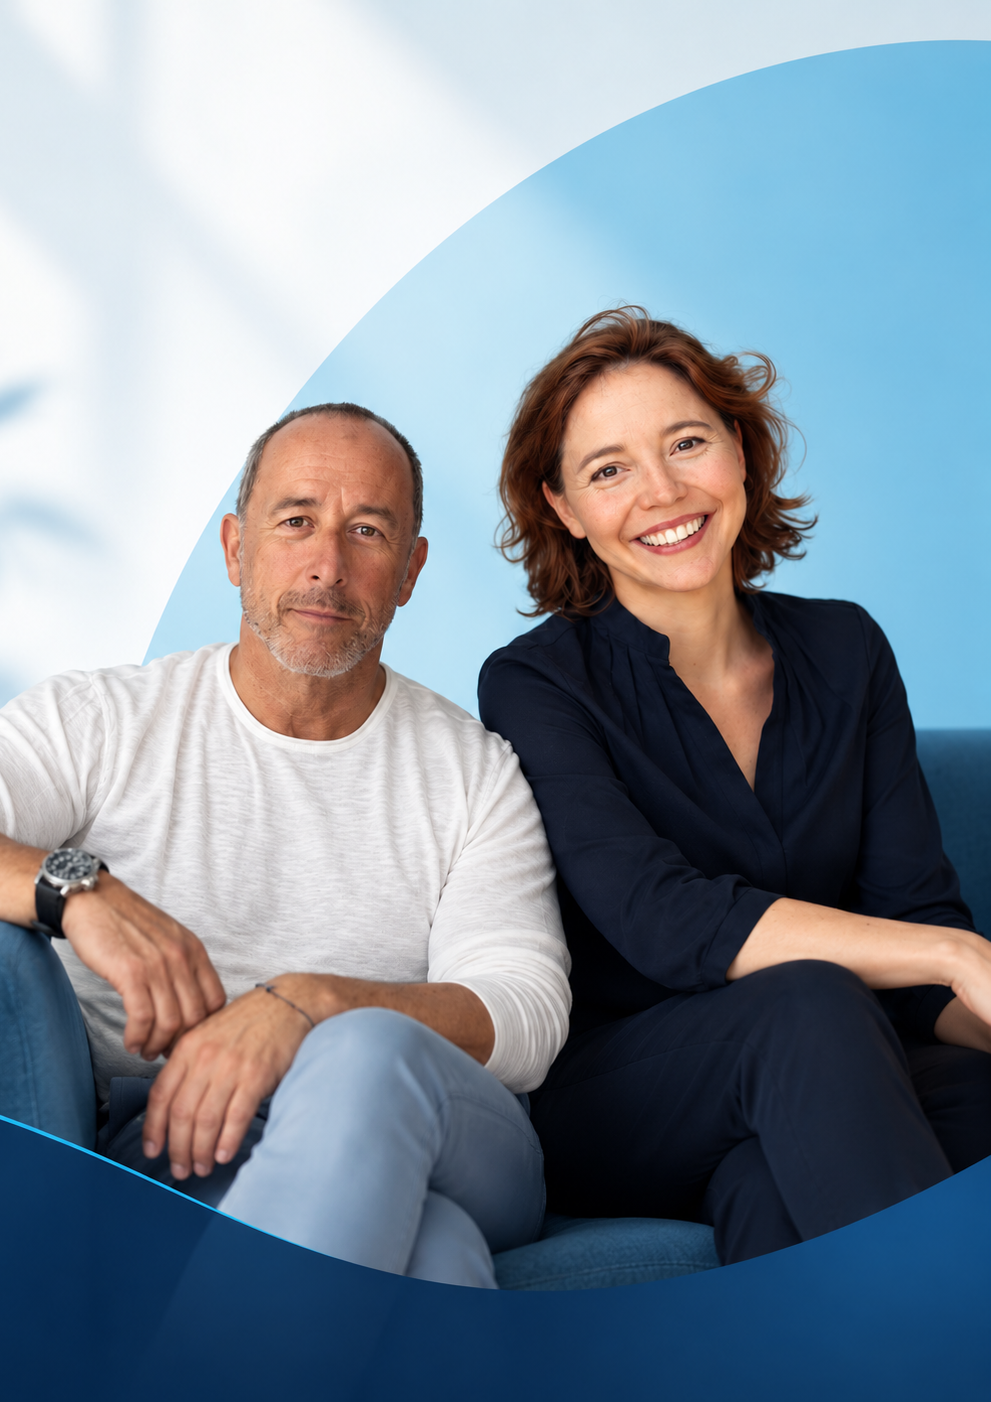
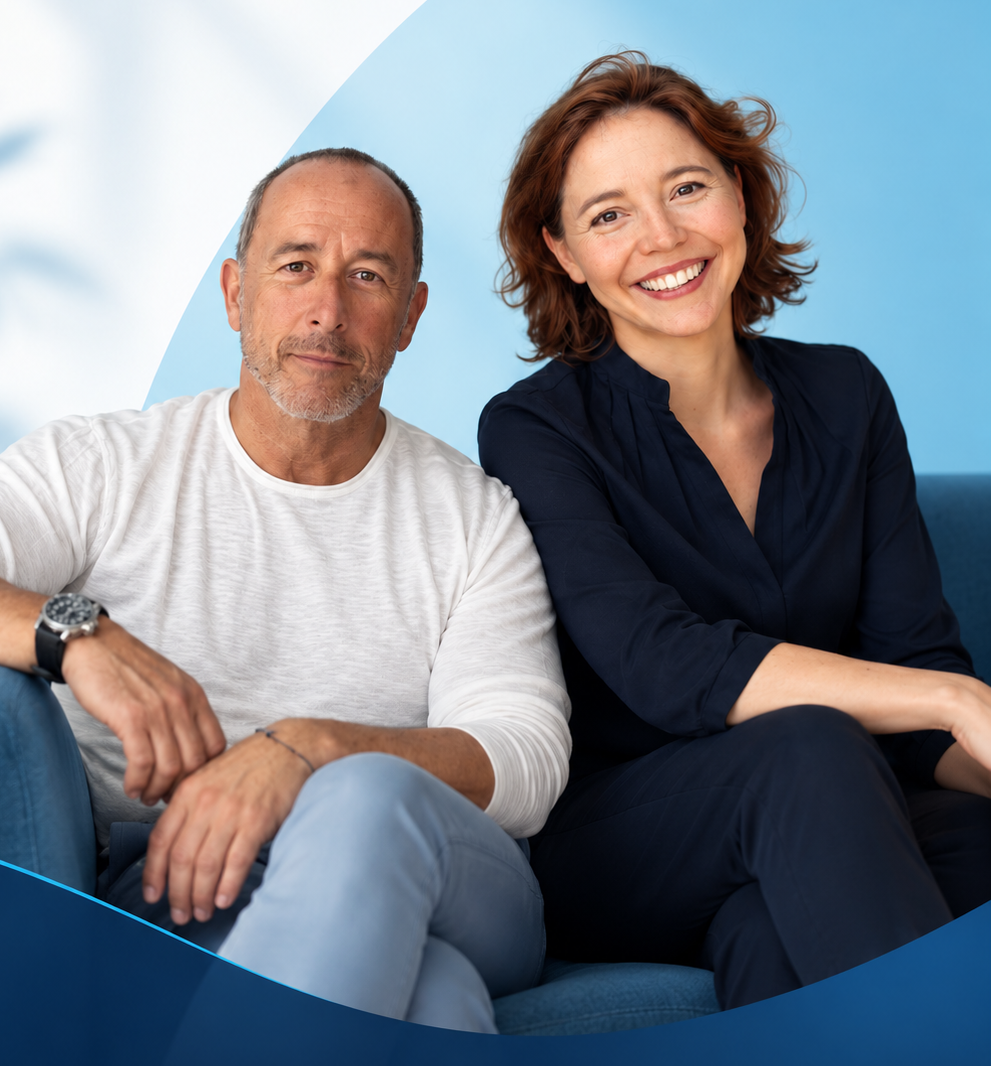
chore: first elements for cooperation

diff --git a/src/app/cooperation/hero-coop/hero-coop.component.scss b/src/app/cooperation/hero-coop/hero-coop.component.scss
@@ -42,7 +42,7 @@
   // Nutzt deine CSS-Variable für den Hintergrund
   background-color: var(--color-dark);
   color: var(--color-white);
-  padding: 4rem;
+  padding: 2rem;
 
   // Container für den Text, damit die Liste linksbündig bleibt, aber als Block zentriert ist
   .text-content {
@@ -54,13 +54,12 @@
     font-family: 'Montserrat Bold', sans-serif;
     font-size: var(--size-4);
     line-height: 1.2;
-    margin-bottom: 1rem;
+    margin: 1rem 0;
   }
 
   p {
     font-family: 'Montserrat Regular', sans-serif;
     font-size: var(--size--2);
-    // Farbe auf hell geändert, da var(--color-dark) auf dunklem Grund unsichtbar wäre
     margin: 1rem 0;
   }
 }
@@ -131,35 +130,26 @@
   .boxes {
     grid-template-columns: 1fr; /* 1 column */
     grid-template-rows: auto; /* Automatic row heights */
-    grid-template-areas:
-      'box1'
-      'box2';
+    margin-bottom: 0;
+    background-color: var(--color-white);
   }
 
   .box_1 {
-    grid-area: box1;
     max-width: 100%;
     margin-top: 2rem;
+    padding-top: 3rem;
   }
   .box_2 {
-    grid-area: box2;
-    max-height: 60%;
-    width: 100%;
-  }
+    background-color: var(--color-white);
+    max-width: 600px;
+    margin: auto;
+    padding: 0 3rem;
 
-  .box-frame {
-    border-left: 1px solid var(--color-light);
-    border-right: none;
-    margin: 2rem 1rem;
-    padding-left: 2rem;
-    text-align: left;
-
-    h1 {
-      font-size: var(--size-5);
-    }
-
-    .handwrite {
-      font-size: clamp(4rem, 9vw, 8rem);
+    img {
+      height: auto;
+      margin: 0 auto;
+      object-fit: cover;
+      display: block;
     }
   }
 }
